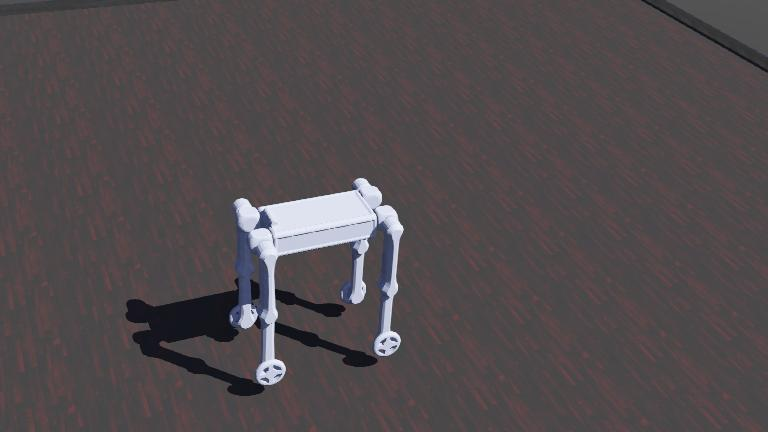
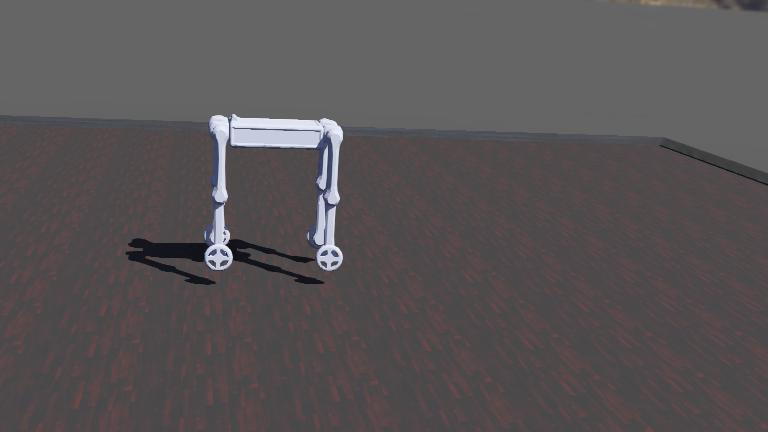
修改proto 关节正方向

diff --git a/controllers/DogController/DogController.cpp b/controllers/DogController/DogController.cpp
@@ -49,9 +49,11 @@ int main(int argc, char **argv) {
     // Legs[Wheel][LB]->setPosition(postest);
     // Legs[Wheel][RB]->setVelocity(10);
     // Legs[Wheel][RB]->setPosition(-postest);
-    std::cout << LegsPos[LegDown][LF]->getValue() << std::endl;
+    std::cout << LegsPos[Shoulder][LF]->getValue() << std::endl;
+    Legs[Shoulder][LF]->setPosition(postest);
+    std::cout << LegsPos[Shoulder][RF]->getValue() << std::endl;
+    Legs[Shoulder][RF]->setPosition(postest);
     postest += 1;
-    Legs[LegDown][LF]->setPosition(postest);
 
     // Process sensor data here.
 
